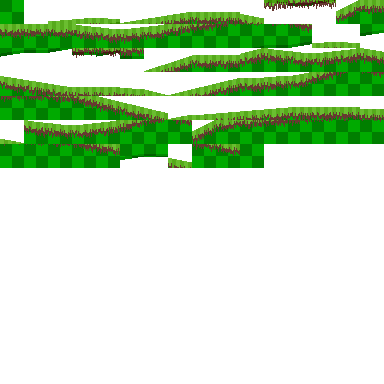
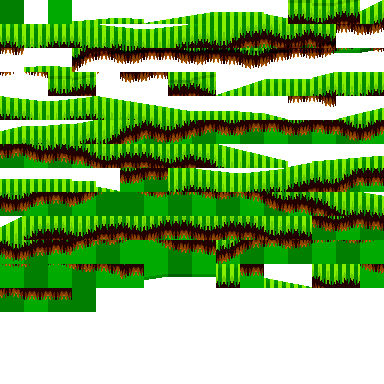
Level painter now supports an image for the floor

diff --git a/tools/level_paint.py b/tools/level_paint.py
@@ -8,6 +8,7 @@ from xml.dom import minidom
 import PIL.Image
 from PIL import ImageDraw
 
+from heightmap import HeightMapTool
 from level_export import LevelExportTool
 from tiledlib import Tileset, TiledLayer, TiledMap, TilesetImage, TilesetDef, Property
 
@@ -36,16 +37,9 @@ class LevelPaintTool:
 
         tilemap = TiledMap.from_file(map_file_name)
         layer = tilemap.layer_for_name("Tile Layer 1")
-        # tree = ET.parse(map_file_name)
-        # root = tree.getroot()
 
-        # layer = root.find('.//layer[@name="Tile Layer 1"]')
+        img_grass = PIL.Image.open("dev/grass2.png")
 
-        # Get the data element containing the tile data
-        # data = layer.find('data')
-
-        # Split the tile data into a list of integers
-        # self.tiles = [int(x) for x in data.text.strip().split(',')]
         self.tiles = layer.tiles
 
         self.map_width = tilemap.width
@@ -83,11 +77,11 @@ class LevelPaintTool:
 
         for py in range(0, self.map_height * 24):
             # print(py)
-            ty = py // 12
+            ty = py // 24
             for px in range(0, self.map_width * 24):
                 if mask_data[py * map_width_pixels + px] == 1:
                     # draw.point((px, py), (0, 127, 0, 255))
-                    tx = px // 12
+                    tx = px // 24
 
                     if (tx + ty) % 2 == 0:
                         canvas_data[py * map_width_pixels + px] = (0, 0x7f, 0, 255)
@@ -121,19 +115,31 @@ class LevelPaintTool:
                         pt_y = tile_bottom - tile_heights[px]
 
                         if mask_data[(pt_y - 1) * map_width_pixels + pt_x] == 0:
-                            draw.point((pt_x, pt_y), (255, 255, 255, 255))
 
-                            # Shadow
-                            draw.line([(pt_x, pt_y), (pt_x, pt_y + self.shadow_lower[pt_x % terrain_pattern_width])],
-                                      fill=(102, 57, 49))
+                            if False:
+                                draw.point((pt_x, pt_y), (255, 255, 255, 255))
 
-                            pt0 = (pt_x, pt_y + self.grass_upper[pt_x % terrain_pattern_width])
-                            pt1 = (pt_x, pt_y + self.grass_lower[pt_x % terrain_pattern_width])
-                            # Green (grass)
-                            if pt_x % 8 < 4:
-                                draw.line([pt0, pt1], fill=(106, 190, 48))
+                                # Shadow
+                                draw.line([(pt_x, pt_y), (pt_x, pt_y + self.shadow_lower[pt_x % terrain_pattern_width])],
+                                          fill=(102, 57, 49))
+
+                                pt0 = (pt_x, pt_y + self.grass_upper[pt_x % terrain_pattern_width])
+                                pt1 = (pt_x, pt_y + self.grass_lower[pt_x % terrain_pattern_width])
+                                # Green (grass)
+                                if pt_x % 8 < 4:
+                                    draw.line([pt0, pt1], fill=(106, 190, 48))
+                                else:
+                                    draw.line([pt0, pt1], fill=(86, 170, 28))
                             else:
-                                draw.line([pt0, pt1], fill=(86, 170, 28))
+
+                                for py in range(0, img_grass.size[1]):
+
+                                    pix = img_grass.getpixel((pt_x % img_grass.size[0], py))
+                                    if pix[3] != 0:
+                                        draw.point((pt_x, pt_y + py), pix )
+
+
+
                     else:
                         pt_y = tile_top + tile_heights[px] - 1
 
@@ -323,6 +329,8 @@ def testAddLayer():
 
 if __name__ == "__main__":
     # testAddLayer()
+
+    HeightMapTool().run()
 
     LevelPaintTool("dev/testmap.tmx", "dev/testmap1.tmx")
     LevelExportTool("dev/testmap1.tmx", "dev/out_testmap1.l3").run()

diff --git a/tools/heightmap.py b/tools/heightmap.py
@@ -27,16 +27,16 @@ class HeightMapTool:
             for y in range(tile_bottom, ty * 24 - 1, -1):
                 if img[y * img.size[0] + (tx * 24 + x)][3] == 255:
                     h = (y - tile_top) + 1
-                    print(f'tile {tx}, {ty}: ceiling height at x: {tx * 24 + x} y:{y}, tile bottom: {tile_bottom}', h)
+                    # print(f'tile {tx}, {ty}: ceiling height at x: {tx * 24 + x} y:{y}, tile bottom: {tile_bottom}', h)
                     heights[x] = h
                     break
 
         return heights
 
     def run(self):
+        print("--- HeightMapTool ---")
         img = PIL.Image.open("dev/height.png")
         data = img.getdata()
-        print(data.size)
         heights = []
 
         for ty in range(0, 24):
@@ -46,8 +46,6 @@ class HeightMapTool:
         for ty in range(24, 24 * 2):
             for tx in range(0, 24):
                 heights.append(self.get_ceiling_heights(data, tx, ty))
-
-        print("heights:", heights)
 
         with open("dev/height.json", "wt") as heightsjson:
             heightsjson.write(json.dumps(heights))

diff --git a/wasm/main.c b/wasm/main.c
@@ -42,8 +42,6 @@ void DrawSubImageTransparent(image_t img, short dstX, short dstY, short srcX, sh
         dstY = 0;
     }
 
-    //if (srcWidth <= 0) return;
-
 
     Rectangle srcRect = {srcX, srcY, srcWidth, srcHeight};
     Rectangle dstRect = {dstX, dstY, srcWidth, srcHeight};
@@ -72,7 +70,7 @@ int main(void)
 
     G_Init();
 
-    InitWindow(320 * 2, 240 * 2, "raylib [core] example - basic window");
+    InitWindow(320 * 3, 240 * 3, "raylib [core] example - basic window");
 
     mainImage = GenImageColor(320, 240, BLANK);
     Texture t = LoadTextureFromImage(mainImage);
@@ -98,7 +96,7 @@ int main(void)
 
             UpdateTexture(t, mainImage.data);
 
-            DrawTextureEx(t, (Vector2){0, 0}, 0, 2, WHITE);
+            DrawTextureEx(t, (Vector2){0, 0}, 0, 3, WHITE);
         EndDrawing();
     }
 

diff --git a/tools/tiledlib.py b/tools/tiledlib.py
@@ -432,7 +432,7 @@ class TiledMap:
 
         return elem
 
-    def tileset_for_gid(self, gid: int) -> TilesetDef | None:
+    def tileset_for_gid(self, gid: int) -> TilesetDef:
         ts: TilesetDef
         for ts in self.tilesets:
             if gid >= ts.firstgid and gid < ts.firstgid + ts.tileset.tilecount:
